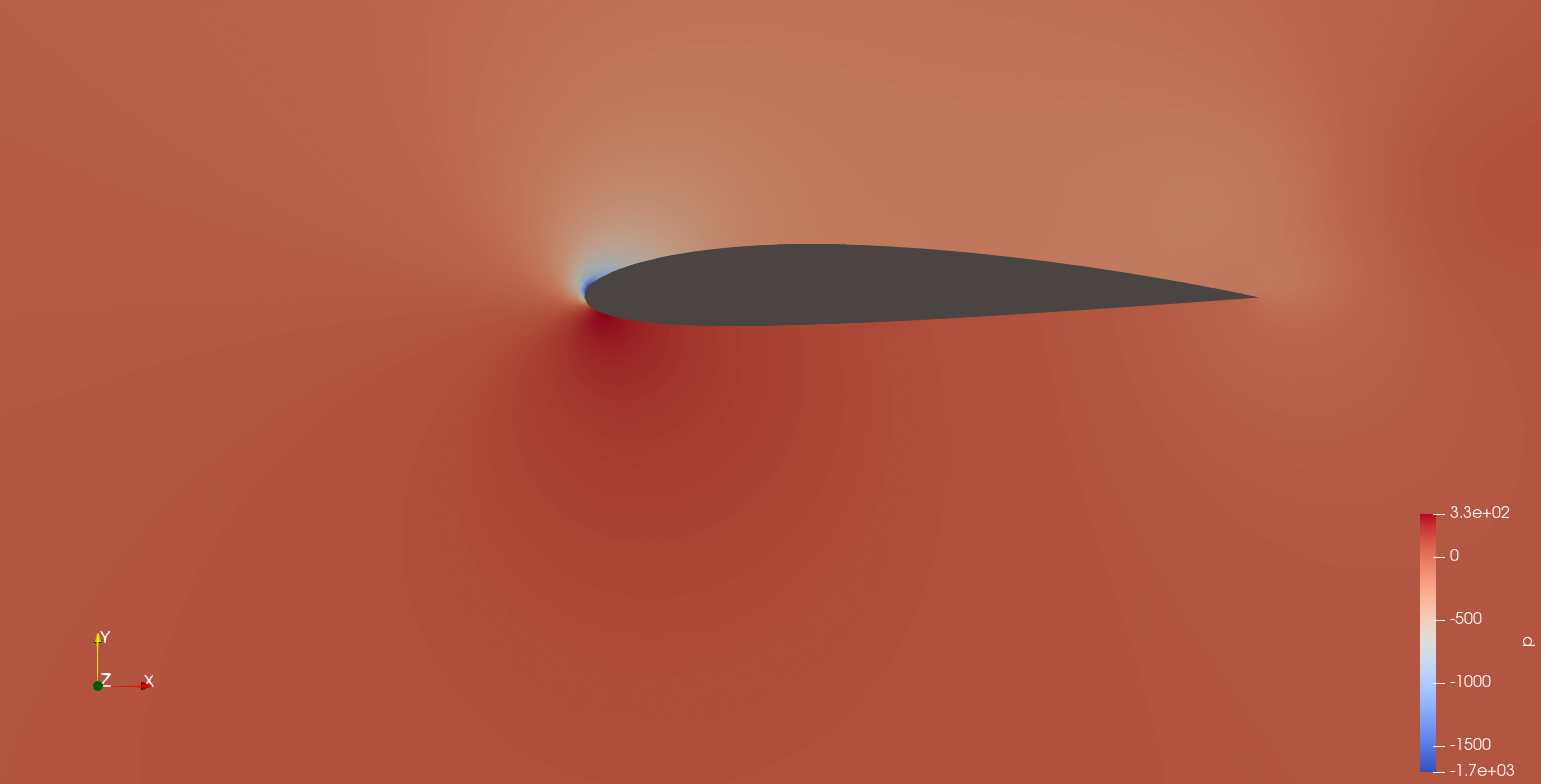
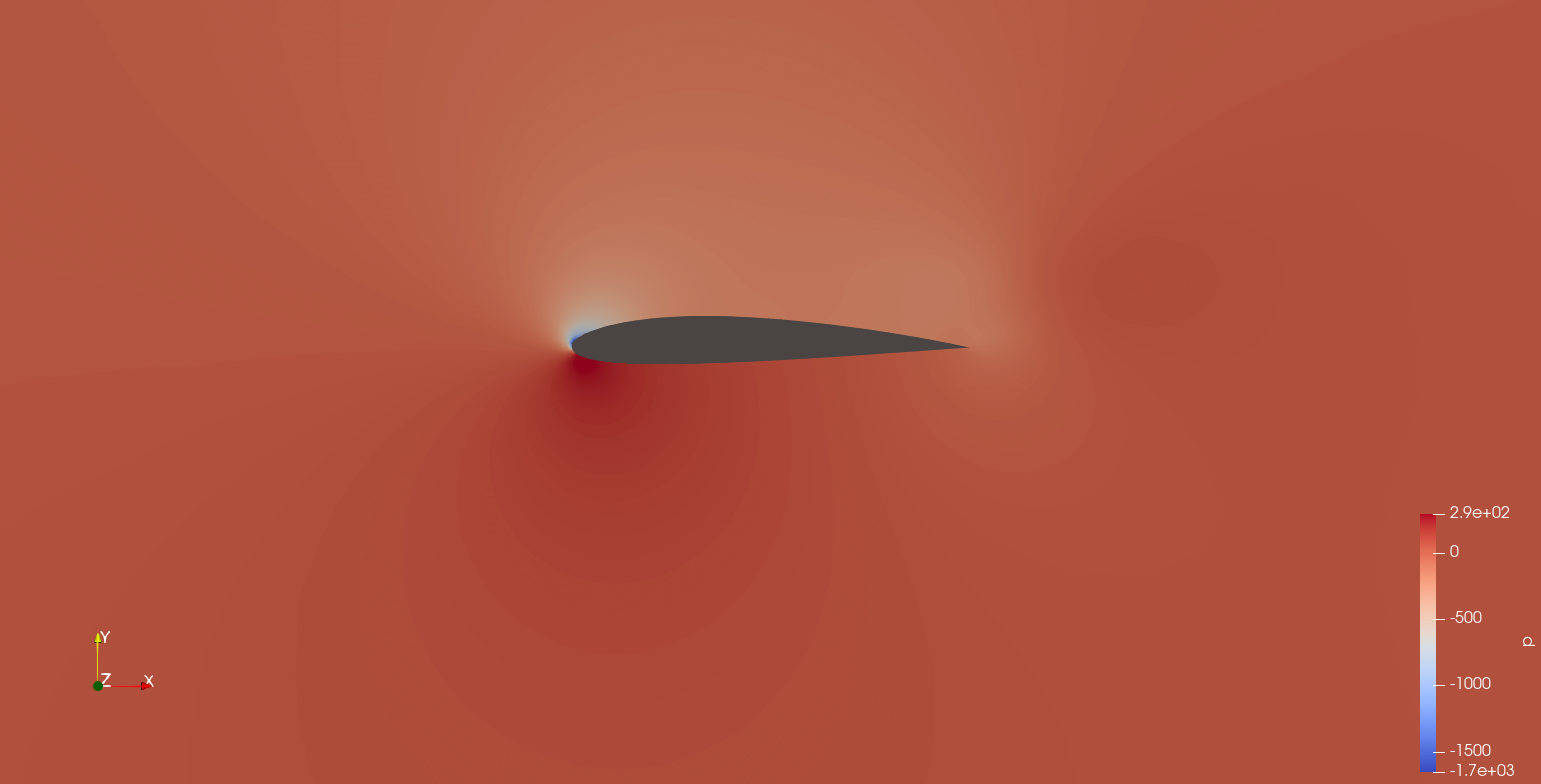
readme

diff --git a/README.md b/README.md
@@ -171,7 +171,7 @@ Tâm khí động (hồi quy trên α ≤ 10°, 3 điểm): Xac/c = **0,232** (O
 
 ### 6.5 Hình minh họa
 
-Các hình dưới đây cần được chèn sau khi chạy lại code với số liệu cuối cùng. Thay các dòng **[chèn hình]** bằng ảnh thật.
+Các hình dưới đây cần được chèn sau khi chạy lại code với số liệu cuối cùng. 
 
 #### 6.5.1 Lực khí động và tâm áp suất theo góc tấn
 
@@ -198,8 +198,8 @@ Mở `cases/af_aX/case.foam`, chọn bước cuối (2000), nhìn theo trục z,
 
 | Nội dung | 0° | 5° | 10° | 15° |
 |---|---|---|---|---|
-| Contour áp suất `p` | **[chèn hình]** | **[chèn hình]** | ![10 độ](/paraview/contour10.png)| ![15 độ](/paraview/contour15.png)  |
-| Vận tốc `U` (magnitude) | **[chèn hình]** | **[chèn hình]** | **[chèn hình]** | **[chèn hình]** |
+| Contour áp suất `p` | ![0 độ](/paraview/contour0.png) | ![0 độ](/paraview/contour5.png) | ![10 độ](/paraview/contour10.png)| ![15 độ](/paraview/contour15.png)  |
+| Vận tốc `U` (magnitude) | ![0 độ](/paraview/magnitude0.png) | ![5 độ](/paraview/magnitude5.png) | ![10 độ](/paraview/magnitude10.png)| ![15 độ](/paraview/magnitude15.png) |
 | Vorticity theo z  | **[chèn hình]** | **[chèn hình]** | **[chèn hình]** | **[chèn hình]** |
 | Streamline và vùng hồi lưu (`Uwind` < 0) | | | **[chèn hình]** | **[chèn hình]** |
 
